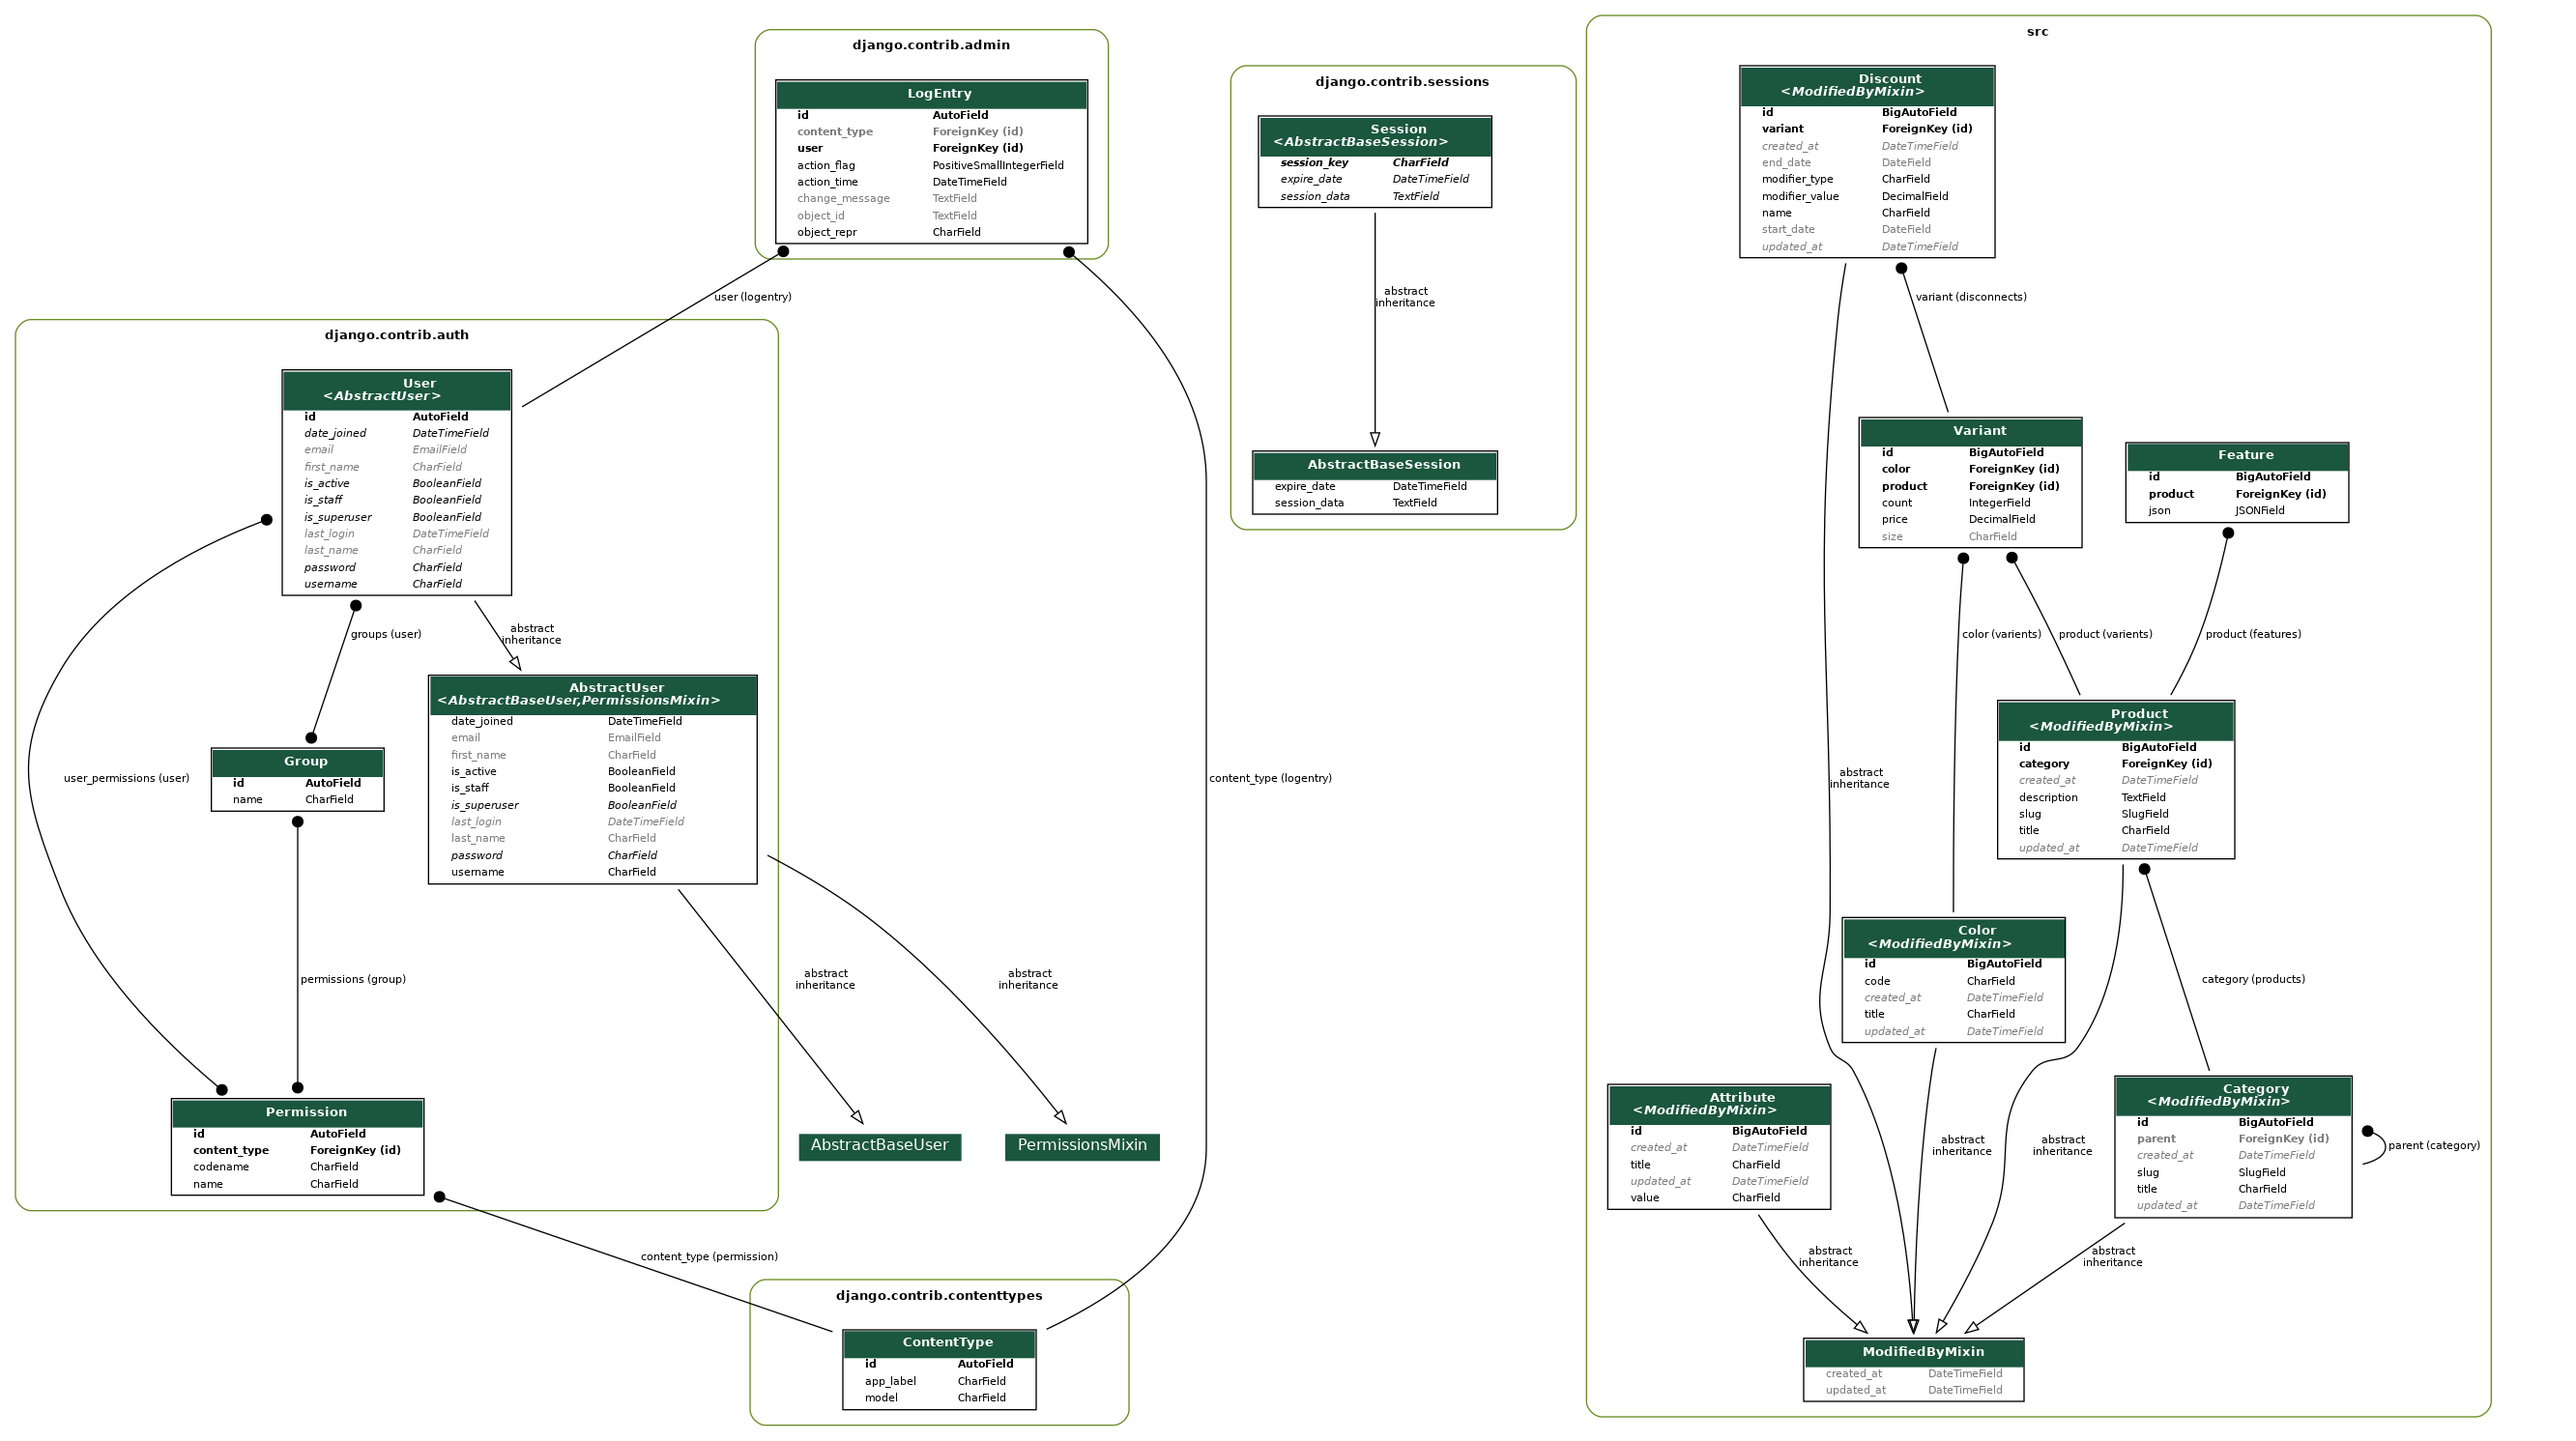
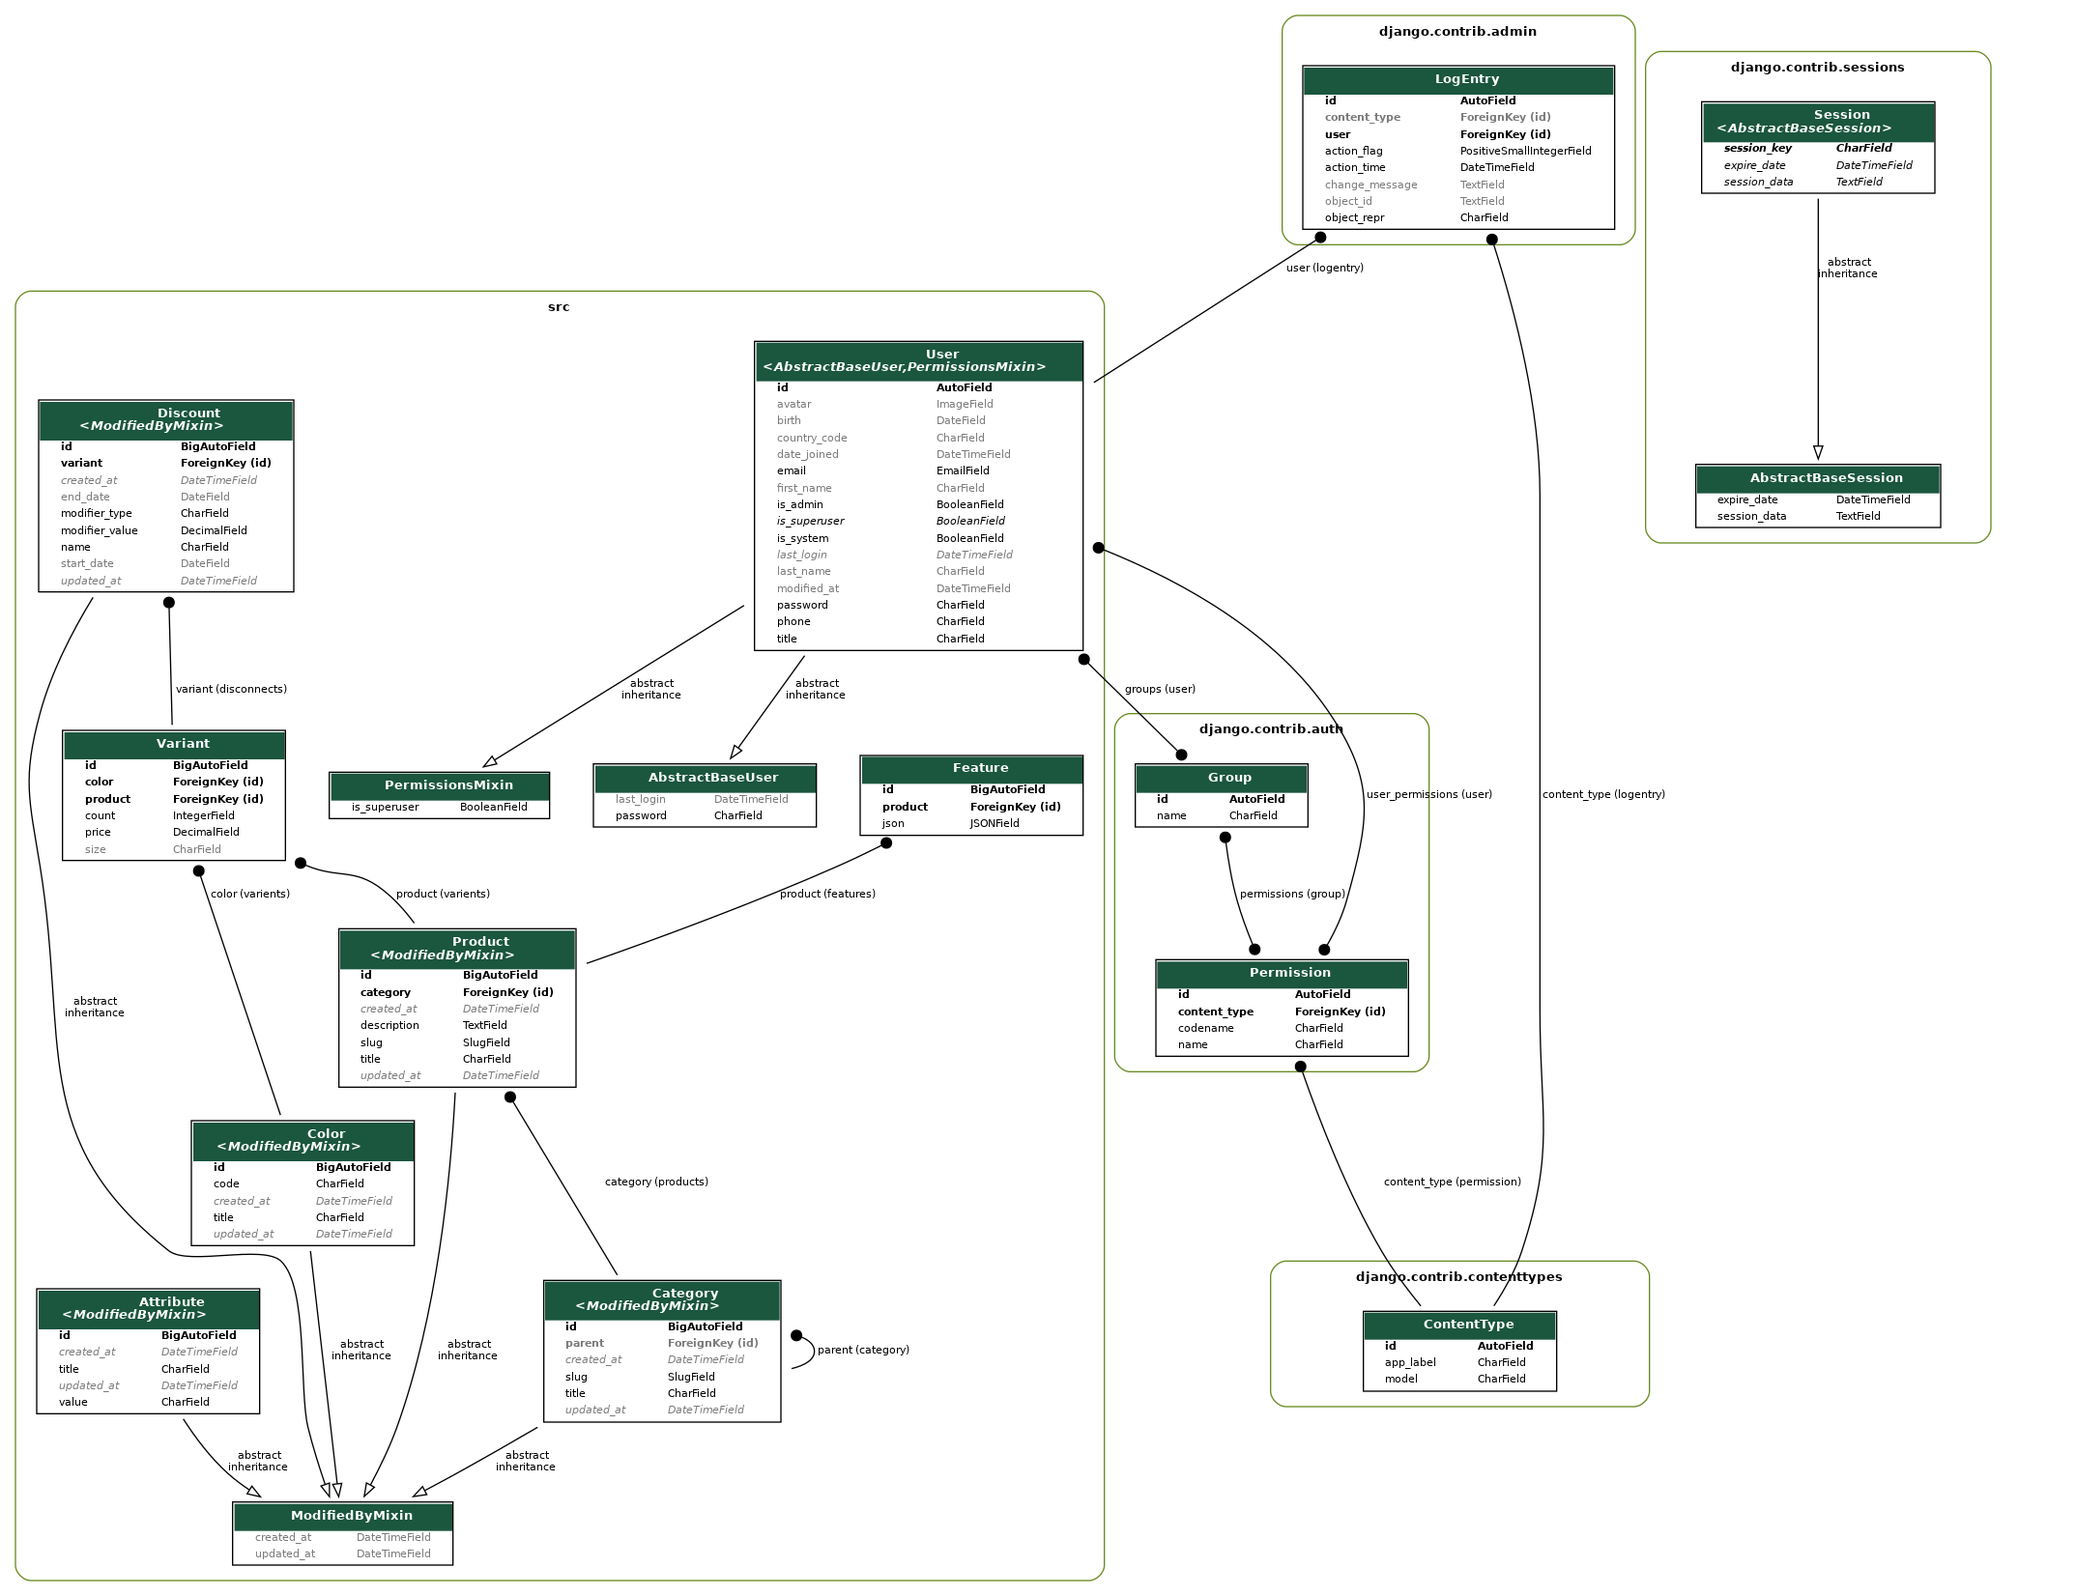
Added jwt authentication

diff --git a/src/models/user.py b/src/models/user.py
@@ -1,0 +1,84 @@
+from django.contrib.auth.base_user import AbstractBaseUser, BaseUserManager
+from django.contrib.auth.models import PermissionsMixin
+from django.core.validators import RegexValidator
+from django.db import models
+
+
+class UserManager(BaseUserManager):
+
+    def create_user(self, title, email, password):
+        if not email:
+            raise ValueError('The Email field must be set')
+        if not title:
+            raise ValueError('The Title field must be set')
+
+        user = self.model(title=title, email=email)
+        user.set_password(password)
+        user.save()
+        return user
+
+    def create_superuser(self, title, email, password):
+        user = self.create_user(
+            title=title,
+            email=email,
+            password=password,
+        )
+        user.is_admin = True
+        user.save()
+        return user
+
+
+class User(AbstractBaseUser, PermissionsMixin):
+
+    def user_directory_path(self, filename):
+        return f'u{self.id}/avatar/{filename}'
+
+    phone_regex = RegexValidator(regex=r'09(\d{9})$', message="Enter a valid phone_number")
+    time_zone_regex = RegexValidator(regex=r'^([+-][0-1]?[0-9]|[+-]2[0-3]):[0-5][0-9]$')
+    id = models.AutoField(primary_key=True)
+    title = models.CharField(max_length=255, unique=True)
+    first_name = models.CharField(max_length=255, blank=True, null=True)
+    last_name = models.CharField(max_length=255, blank=True, null=True)
+    avatar = models.ImageField(upload_to=user_directory_path, blank=True, null=True)
+    phone = models.CharField(max_length=15, validators=[phone_regex])
+    email = models.EmailField(unique=True)
+    birth = models.DateField(blank=True, null=True)
+    date_joined = models.DateTimeField(auto_now_add=True)
+    modified_at = models.DateTimeField(auto_now=True)
+    is_system = models.BooleanField(default=False)
+    is_admin = models.BooleanField(default=False)
+    country_code = models.CharField(max_length=4, null=True, blank=True)
+    password = models.CharField(max_length=255)
+
+    objects = UserManager()
+
+    USERNAME_FIELD = 'email'
+    REQUIRED_FIELDS = ['title']
+
+    def has_perm(self, perm, obj=None):
+        """Does the user have a specific permission?"""
+        # Simplest possible answer: Yes, always
+        return True
+
+    def has_module_perms(self, app_label):
+        """Does the user have permissions to view the app `app_label`?"""
+        # Simplest possible answer: Yes, always
+        return True
+
+    @property
+    def is_staff(self):
+        """Is the user a member of staff?"""
+        # Simplest possible answer: All admins are staff
+        return self.is_admin
+
+    class Meta:
+        db_table = 'user'
+        verbose_name_plural = 'user'
+        ordering = ['id']
+        constraints = [
+            models.UniqueConstraint(
+                fields=['country_code', 'phone'],
+                name='unique_phone',
+            )
+        ]
+

diff --git a/djshop/settings.py b/djshop/settings.py
@@ -9,7 +9,7 @@ https://docs.djangoproject.com/en/4.2/topics/settings/
 For the full list of settings and their values, see
 https://docs.djangoproject.com/en/4.2/ref/settings/
 """
-
+from datetime import timedelta
 from pathlib import Path
 
 import environ
@@ -53,7 +53,11 @@ INSTALLED_APPS = [
 
 
 REST_FRAMEWORK = {
-    'DEFAULT_FILTER_BACKENDS': ['django_filters.rest_framework.DjangoFilterBackend']
+    'DEFAULT_FILTER_BACKENDS':
+        ['django_filters.rest_framework.DjangoFilterBackend'],
+    'DEFAULT_AUTHENTICATION_CLASSES':
+        ['rest_framework_simplejwt.authentication.JWTAuthentication',],
+
 }
 
 
@@ -148,4 +152,40 @@ GRAPH_MODELS = {
   'all_applications': True,
   'group_models': True,
 }
+
+AUTH_USER_MODEL = 'src.user'
+
+
+SIMPLE_JWT = {
+    'ACCESS_TOKEN_LIFETIME': timedelta(days=3),
+    'REFRESH_TOKEN_LIFETIME': timedelta(days=3),
+    'ROTATE_REFRESH_TOKENS': False,
+    'BLACKLIST_AFTER_ROTATION': False,
+    'UPDATE_LAST_LOGIN': False,
+
+    'ALGORITHM': 'HS256',
+    'SIGNING_KEY': SECRET_KEY,
+    'VERIFYING_KEY': None,
+    'AUDIENCE': None,
+    'ISSUER': None,
+    'JWK_URL': None,
+    'LEEWAY': 0,
+
+    'AUTH_HEADER_TYPES': ('Bearer',),
+    'AUTH_HEADER_NAME': 'HTTP_AUTHORIZATION',
+    'USER_ID_FIELD': 'id',
+    'USER_ID_CLAIM': 'user_id',
+    'USER_AUTHENTICATION_RULE': 'rest_framework_simplejwt.authentication.default_user_authentication_rule',
+
+    'AUTH_TOKEN_CLASSES': ('rest_framework_simplejwt.tokens.AccessToken',),
+    'TOKEN_TYPE_CLAIM': 'token_type',
+    'TOKEN_USER_CLASS': 'rest_framework_simplejwt.models.TokenUser',
+
+    'JTI_CLAIM': 'jti',
+
+    'SLIDING_TOKEN_REFRESH_EXP_CLAIM': 'refresh_exp',
+    'SLIDING_TOKEN_LIFETIME': timedelta(minutes=5),
+    'SLIDING_TOKEN_REFRESH_LIFETIME': timedelta(days=1),
+}
+
 

diff --git a/src/serializers/user.py b/src/serializers/user.py
@@ -1,0 +1,35 @@
+from rest_framework import serializers
+from rest_framework_simplejwt.serializers import TokenObtainPairSerializer
+
+from ..models import User
+
+
+class UserRegisterSerializer(serializers.ModelSerializer):
+    class Meta:
+        model = User
+        fields = ['id', 'title', 'email', 'phone', 'password']
+        extra_kwargs = {'password': {'write_only': True}}
+
+    def create(self, validated_data):
+        member = User.objects.create_user(
+            title=validated_data['title'],
+            email=validated_data['email'],
+            phone=validated_data['phone'],
+            password=validated_data['password'],
+        )
+        member.set_password(validated_data['password'])
+        member.save()
+        return member
+
+
+class MyTokenObtainPairSerializer(TokenObtainPairSerializer):
+
+    @classmethod
+    def get_token(cls, user):
+        token = super().get_token(user)
+
+        token['id'] = user.id
+        token['title'] = user.title
+        token['email'] = user.email
+        return token
+

diff --git a/src/tests/test_color_list.py b/src/tests/test_color_list.py
@@ -1,7 +1,8 @@
 import pytest
 from rest_framework.test import APITestCase
 
-from ..models import Color
+from ..helper import generate_jwt_token
+from ..models import Color, User
 
 
 class TestColor(APITestCase):
@@ -13,6 +14,11 @@ class TestColor(APITestCase):
         cls.color2 = Color.objects.create(title='c2')
         cls.color3 = Color.objects.create(title='c3')
         cls.color4 = Color.objects.create(title='c4')
+        cls.user = User.objects.create_user(
+            title='parisa',
+            email='parisafarivash@gmail.com',
+            password='Mypassword',
+        )
 
     def test_list_color(self):
         """ This test get all colors
@@ -20,6 +26,9 @@ class TestColor(APITestCase):
         Returns:
             Colors
         """
+        self.jwt_token = generate_jwt_token(self.user.id)
+        self.client.force_authenticate(user=self.user, token=self.jwt_token)
+
         response = self.client.get(
             path='/api/colors/',
             content_type='application/json'

diff --git a/src/tests/test_color_create.py b/src/tests/test_color_create.py
@@ -1,9 +1,22 @@
 import json
 
+import pytest
 from rest_framework.test import APITestCase
+
+from ..helper import generate_jwt_token
+from ..models import User
 
 
 class TestColor(APITestCase):
+
+    @classmethod
+    @pytest.mark.django_db
+    def setUp(cls):
+        cls.user = User.objects.create_user(
+            title='parisa',
+            email='parisafarivash@gmail.com',
+            password='Mypassword',
+        )
 
     def test_create_color(self):
         """ This test for creating color
@@ -11,6 +24,9 @@ class TestColor(APITestCase):
         Returns:
             Color
         """
+        self.jwt_token = generate_jwt_token(self.user.id)
+        self.client.force_authenticate(user=self.user, token=self.jwt_token)
+
         data = json.dumps({
             "title": "blue",
             "code": "FF00",

diff --git a/src/urls.py b/src/urls.py
@@ -2,13 +2,24 @@ from django.urls import path, include
 from rest_framework.routers import DefaultRouter
 
 from .views.color import ColorView
-
+from .views.user import RegisterView, MyTokenObtainPairView
 
 router = DefaultRouter()
 router.register('colors', ColorView, basename='color')
 
 
+# jwt token django
+"""
+from rest_framework_simplejwt import views as jwt_views
+
+path('api/token/', jwt_views.TokenObtainPairView.as_view(),name='token_obtain_pair'),
+path('api/token/refresh/', jwt_views.TokenRefreshView.as_view(), name='token_refresh'),
+"""
+
+
 urlpatterns = [
     path('', include(router.urls)),
+    path('register', RegisterView.as_view(), name='register'),
+    path('token', MyTokenObtainPairView.as_view(), name='token_obtain_pair'),
 ]
 

diff --git a/src/views/user.py b/src/views/user.py
@@ -1,0 +1,17 @@
+from rest_framework import generics
+from rest_framework.permissions import AllowAny
+from rest_framework_simplejwt.views import TokenObtainPairView
+
+from ..models import User
+from ..serializers import UserRegisterSerializer, MyTokenObtainPairSerializer
+
+
+class RegisterView(generics.CreateAPIView):
+    permission_classes = [AllowAny]
+    serializer_class = UserRegisterSerializer
+    queryset = User.objects.all()
+
+
+class MyTokenObtainPairView(TokenObtainPairView):
+    serializer_class = MyTokenObtainPairSerializer
+

diff --git a/src/views/color.py b/src/views/color.py
@@ -1,12 +1,14 @@
 from rest_framework.filters import OrderingFilter
 from django_filters.rest_framework import DjangoFilterBackend
 from rest_framework import viewsets
+from rest_framework.permissions import IsAuthenticated
 
 from ..models import Color
 from ..serializers import ColorSerializer
 
 
 class ColorView(viewsets.ModelViewSet):
+    permission_classes = [IsAuthenticated]
     queryset = Color.objects.all()
     serializer_class = ColorSerializer
     filter_backends = [DjangoFilterBackend, OrderingFilter]

diff --git a/src/helper.py b/src/helper.py
@@ -1,0 +1,16 @@
+from datetime import timedelta, datetime
+
+import jwt
+from djshop.settings import SECRET_KEY
+
+
+def generate_jwt_token(user_id):
+    payload = {
+        'user_id': user_id,
+        'exp': datetime.utcnow() + timedelta(days=1)
+    }
+    secret_key = SECRET_KEY
+    token = jwt.encode(payload, secret_key, algorithm='HS256')
+    return token
+
+

diff --git a/src/models/__init__.py b/src/models/__init__.py
@@ -5,4 +5,5 @@ from .product import Product
 from .varient import Variant
 from .attribute import Attribute
 from .category import Category
+from .user import User
 

diff --git a/src/serializers/__init__.py b/src/serializers/__init__.py
@@ -1,2 +1,3 @@
 from .color import ColorSerializer
+from .user import UserRegisterSerializer, MyTokenObtainPairSerializer
 
